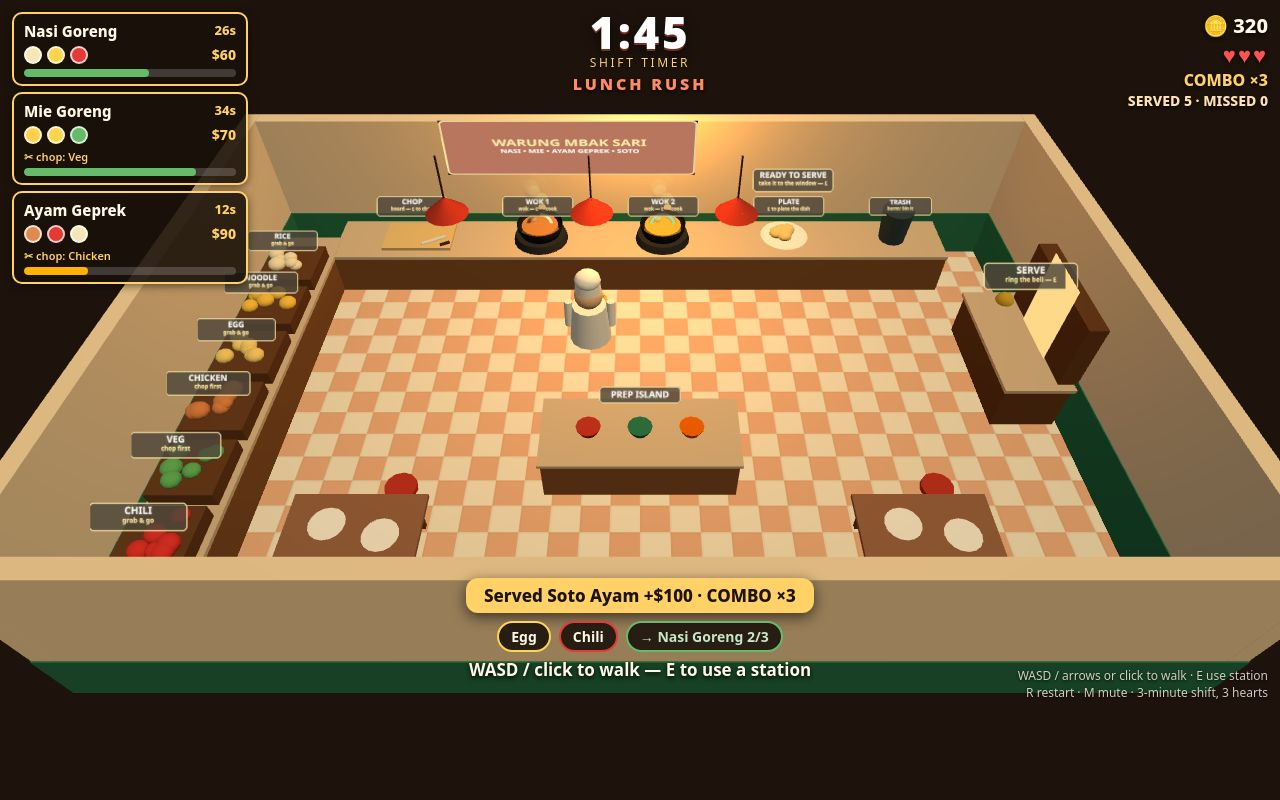
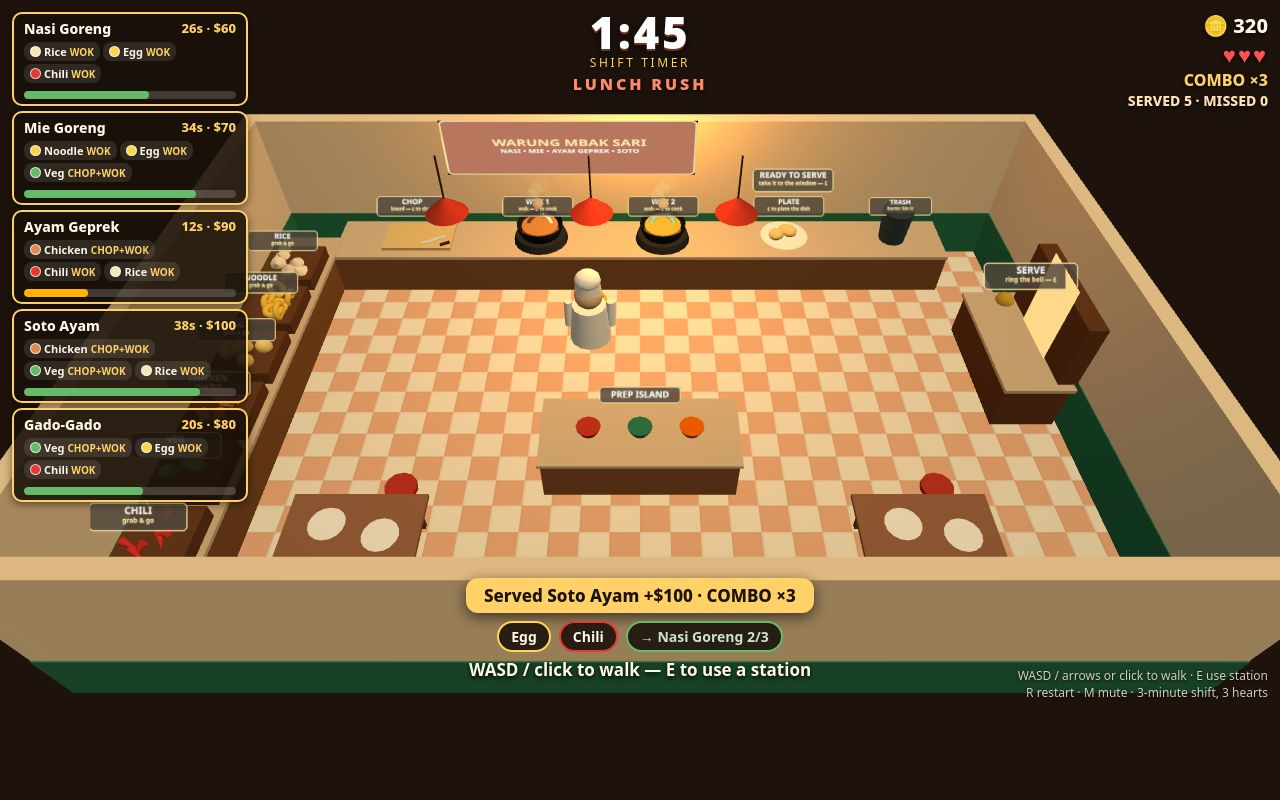
Rival round: 5 tickets, step pills, 5th recipe, shaped food
- 5th recipe Gado-Gado (unlocks at 140s); max 5 concurrent tickets;
  cover shows all 5 dishes.
- Tickets carry per-ingredient step pills (Rice WOK, Chicken CHOP+WOK).
- Crate heaps are shaped per ingredient (rice mounds, noodle nests,
  eggs, chicken pieces, veg cubes, chili cones) instead of plain balls.
- Ticket cards compacted so pills wrap inside the card.

diff --git a/game/index.html b/game/index.html
@@ -14,14 +14,14 @@
   #orders h2 { margin: 0 0 6px 0; font-size: 15px; letter-spacing: .14em; color: #ffd166;
     text-shadow: 0 2px 4px rgba(0,0,0,.8); }
   .ticket { background: rgba(24,16,10,.88); border: 2px solid #ffd166; border-radius: 10px;
-    padding: 7px 10px; margin-bottom: 6px; box-shadow: 0 2px 8px rgba(0,0,0,.5); }
+    padding: 5px 10px; margin-bottom: 5px; box-shadow: 0 2px 8px rgba(0,0,0,.5); }
   .ticket.low { border-color: #e53935; }
   .ticket.low .t-name { color: #ff8a80; }
   .ticket.flash { animation: flash .3s ease-in-out 2; }
   @keyframes flash { 50% { background: rgba(229,57,53,.55); } }
   .ticket.empty { color: #d7ccc8; font-size: 13px; border-style: dashed; }
-  .t-name { font-weight: 800; font-size: 15px; }
-  .t-needs { display: flex; align-items: center; gap: 5px; margin: 4px 0 5px; }
+  .t-name { font-weight: 800; font-size: 14px; }
+  .t-needs { display: flex; flex-wrap: wrap; align-items: center; gap: 0; margin: 4px 0 5px; }
   .dot { width: 14px; height: 14px; border-radius: 50%; border: 2px solid rgba(255,255,255,.75); display: inline-block; }
   .t-price { margin-left: auto; font-weight: 800; color: #ffd166; font-size: 14px; }
   .t-bar { height: 8px; background: rgba(255,255,255,.18); border-radius: 4px; overflow: hidden; }
@@ -42,6 +42,10 @@
   .t-secs { float: right; font-size: 13px; color: #ffd166; }
   .ticket.low .t-secs { color: #ff8a80; }
   .t-prep { font-size: 11px; color: #ffd166; margin: 0 0 4px; font-weight: 600; }
+  .t-pill { display: inline-flex; align-items: center; gap: 3px; background: rgba(255,255,255,.10);
+    border-radius: 8px; padding: 2px 6px; font-size: 11px; font-weight: 700; margin: 0 3px 3px 0; }
+  .t-pill .dot { width: 9px; height: 9px; border-width: 1px; }
+  .t-pill em { font-style: normal; color: #ffd166; font-size: 10px; }
   #toast { display: none; font-size: 17px; font-weight: 800; color: #1d130c;
     background: #ffd166; border-radius: 12px; padding: 6px 18px; margin-bottom: 8px;
     box-shadow: 0 4px 14px rgba(0,0,0,.6); }
@@ -108,8 +112,8 @@
   with the terracotta floor. Grab rice, noodles, egg, chicken, veg and chili from
   the crates, chop what needs chopping, fire two woks at once, plate the dish and
   ring the bell at the serve window — before patience runs out. Lift a dish fast
-  and it goes out HOT for a +$10 tip. Four recipes, combos up to ×10, and a rush
-  that grows every minute.</p>
+  and it goes out HOT for a +$10 tip. Combos up to ×10, and a rush
+  that grows every minute. Five recipes in all — the last, Gado-Gado, unlocks late in the shift.</p>
   <p class="keys">WASD / arrows or click to walk &nbsp;·&nbsp; E use a station &nbsp;·&nbsp; R restart</p>
   <button id="start-btn">▶ START SHIFT</button>
 </div>

diff --git a/game/src/world3d.js b/game/src/world3d.js
@@ -205,20 +205,30 @@ export class World3D {
       // Open crate: wooden box rim with a heap of the ingredient inside.
       const ing = INGREDIENTS[s.gives];
       box(1.1, 0.28, 1.1, WOOD_DARK, s.x, y + 0.14, s.z, g);
+      // Each ingredient heaps in its own shape, so food reads as food:
+      // rice mounds, noodle nests, eggs, chicken pieces, veg cubes, chilies.
       const heap = new THREE.Group();
+      const heapMat = mat(new THREE.Color(ing.color));
+      const shapeFor = (id) => {
+        if (id === 'rice') return new THREE.Mesh(new THREE.ConeGeometry(0.16, 0.22, 10), heapMat);
+        if (id === 'noodle') return new THREE.Mesh(new THREE.TorusGeometry(0.14, 0.06, 8, 14), heapMat);
+        if (id === 'egg') return new THREE.Mesh(new THREE.SphereGeometry(0.14, 10, 8), heapMat);
+        if (id === 'chicken') return new THREE.Mesh(new THREE.BoxGeometry(0.22, 0.14, 0.16), heapMat);
+        if (id === 'veg') return new THREE.Mesh(new THREE.BoxGeometry(0.16, 0.16, 0.16), heapMat);
+        return new THREE.Mesh(new THREE.ConeGeometry(0.07, 0.3, 8), heapMat); // chili
+      };
       for (let i = 0; i < 7; i++) {
-        const r = 0.13 + Math.random() * 0.05;
-        const ball = new THREE.Mesh(
-          new THREE.SphereGeometry(r, 10, 8),
-          mat(new THREE.Color(ing.color)),
-        );
-        ball.position.set(
+        const piece = shapeFor(s.gives);
+        piece.position.set(
           s.x + (Math.random() - 0.5) * 0.7,
           y + 0.32 + Math.random() * 0.08,
           s.z + (Math.random() - 0.5) * 0.7,
         );
-        ball.scale.y = 0.75;
-        heap.add(ball);
+        piece.rotation.set(Math.random() * 0.6, Math.random() * Math.PI, Math.random() * 0.6);
+        if (s.gives === 'egg') piece.scale.y = 1.3;
+        if (s.gives === 'noodle') piece.rotation.x = Math.PI / 2 + (Math.random() - 0.5) * 0.5;
+        if (s.gives === 'chili') piece.rotation.z = Math.PI / 2 + (Math.random() - 0.5) * 0.8;
+        heap.add(piece);
       }
       g.add(heap);
       const lab = labelSprite(s.label, s.gives === 'chicken' || s.gives === 'veg' ? 'chop first' : 'grab & go', 0.85);
@@ -482,7 +492,7 @@ export class World3D {
     this.plateFood.visible = cook.plate !== null;
     if (this.plateReady) this.plateReady.visible = cook.plate !== null;
     if (cook.plate) {
-      const dishColor = { 'nasi-goreng': 0xffcf4d, 'mie-goreng': 0xffb347, 'ayam-geprek': 0xe08a52, 'soto-ayam': 0xffd98a }[cook.plate] || 0xffcf4d;
+      const dishColor = { 'nasi-goreng': 0xffcf4d, 'mie-goreng': 0xffb347, 'ayam-geprek': 0xe08a52, 'soto-ayam': 0xffd98a, 'gado-gado': 0x9ccc65 }[cook.plate] || 0xffcf4d;
       this.plateFood.children.forEach((ball) => ball.material.color.set(dishColor));
     }
 

diff --git a/game/src/hud.js b/game/src/hud.js
@@ -70,20 +70,16 @@ export class Hud {
     this.el.board.innerHTML = board.tickets.map((t) => {
       const share = Math.max(0, t.patience / t.patienceMax);
       const cls = share < 0.3 ? 'low' : share < 0.55 ? 'mid' : '';
-      const dots = t.recipe.needs.map((n) => {
+      // Per-ingredient step pills: every ingredient names its step, so the
+      // ticket reads as a little route (CHOP first, then WOK).
+      const pills = t.recipe.needs.map((n) => {
         const ing = INGREDIENTS[n];
-        const prepped = ing.prep === 'chop' ? ' (chop)' : '';
-        return `<span class="dot" style="background:${ing.dot}" title="${ing.name}${prepped}"></span>`;
+        const step = ing.prep === 'chop' ? 'CHOP+WOK' : 'WOK';
+        return `<span class="t-pill"><span class="dot" style="background:${ing.dot}"></span>${ing.name} <em>${step}</em></span>`;
       }).join('');
-      const chopNames = t.recipe.needs
-        .filter((n) => INGREDIENTS[n].prep === 'chop')
-        .map((n) => INGREDIENTS[n].name);
-      const prep = chopNames.length
-        ? `<div class="t-prep">✂ chop: ${chopNames.join(', ')}</div>` : '';
       return `<div class="ticket ${cls} ${t.flash > 0 ? 'flash' : ''}">
-        <div class="t-name">${t.recipe.name}<span class="t-secs">${Math.ceil(t.patience)}s</span></div>
-        <div class="t-needs">${dots}<span class="t-price">$${t.recipe.price}</span></div>
-        ${prep}
+        <div class="t-name">${t.recipe.name}<span class="t-secs">${Math.ceil(t.patience)}s · $${t.recipe.price}</span></div>
+        <div class="t-needs">${pills}</div>
         <div class="t-bar"><div class="t-fill" style="width:${Math.round(share * 100)}%"></div></div>
       </div>`;
     }).join('') || '<div class="ticket empty">No orders yet — tickets incoming…</div>';

diff --git a/game/src/recipes.js b/game/src/recipes.js
@@ -34,12 +34,18 @@ export const RECIPES = [
     needs: ['chicken', 'veg', 'rice'],
     blurb: 'Chicken soup with veg, served over rice.',
   },
+  {
+    id: 'gado-gado', name: 'Gado-Gado', price: 80, cookTime: 7,
+    needs: ['veg', 'egg', 'chili'],
+    blurb: 'Blanched veg, egg and chili under peanut sauce.',
+  },
 ];
 
 /** Recipes a ticket may ask for this far into the shift (seconds elapsed). */
 export function unlockedRecipes(elapsedSec) {
   if (elapsedSec < 45) return RECIPES.slice(0, 2);
   if (elapsedSec < 100) return RECIPES.slice(0, 3);
+  if (elapsedSec < 140) return RECIPES.slice(0, 4);
   return RECIPES;
 }
 

diff --git a/game/src/shots.js b/game/src/shots.js
@@ -48,6 +48,8 @@ export function applyShot(game, name) {
       ticket(1, 'nasi-goreng', 26, 44),
       ticket(2, 'mie-goreng', 34, 42),
       ticket(3, 'ayam-geprek', 12, 40),
+      ticket(4, 'soto-ayam', 38, 46),
+      ticket(5, 'gado-gado', 20, 36),
     ];
     cook.x = -1.0; cook.z = -1.6; cook.heading = Math.PI;
     cook.carrying = [{ id: 'egg', prepped: true }, { id: 'chili', prepped: true }];

diff --git a/game/src/orders.js b/game/src/orders.js
@@ -20,7 +20,7 @@ export class OrderBoard {
     this.comboTimer = 0;
   }
 
-  get maxTickets() { return 4; }
+  get maxTickets() { return 5; }
 
   spawnInterval(elapsedSec) {
     return Math.max(7, 14 - elapsedSec / 25);

diff --git a/README.md b/README.md
@@ -24,6 +24,7 @@ ticket's patience runs out.
 | Mie Goreng | noodle, egg, veg (chopped) | $70 | 7s |
 | Ayam Geprek | chicken (chopped), chili, rice | $90 | 8s |
 | Soto Ayam | chicken (chopped), veg (chopped), rice | $100 | 9s |
+| Gado-Gado | veg (chopped), egg, chili | $80 | 7s |
 
 New recipes unlock as the shift goes on, tickets arrive faster, and patience
 shrinks — the rush grows without adding chores. A dish left in the wok 5
